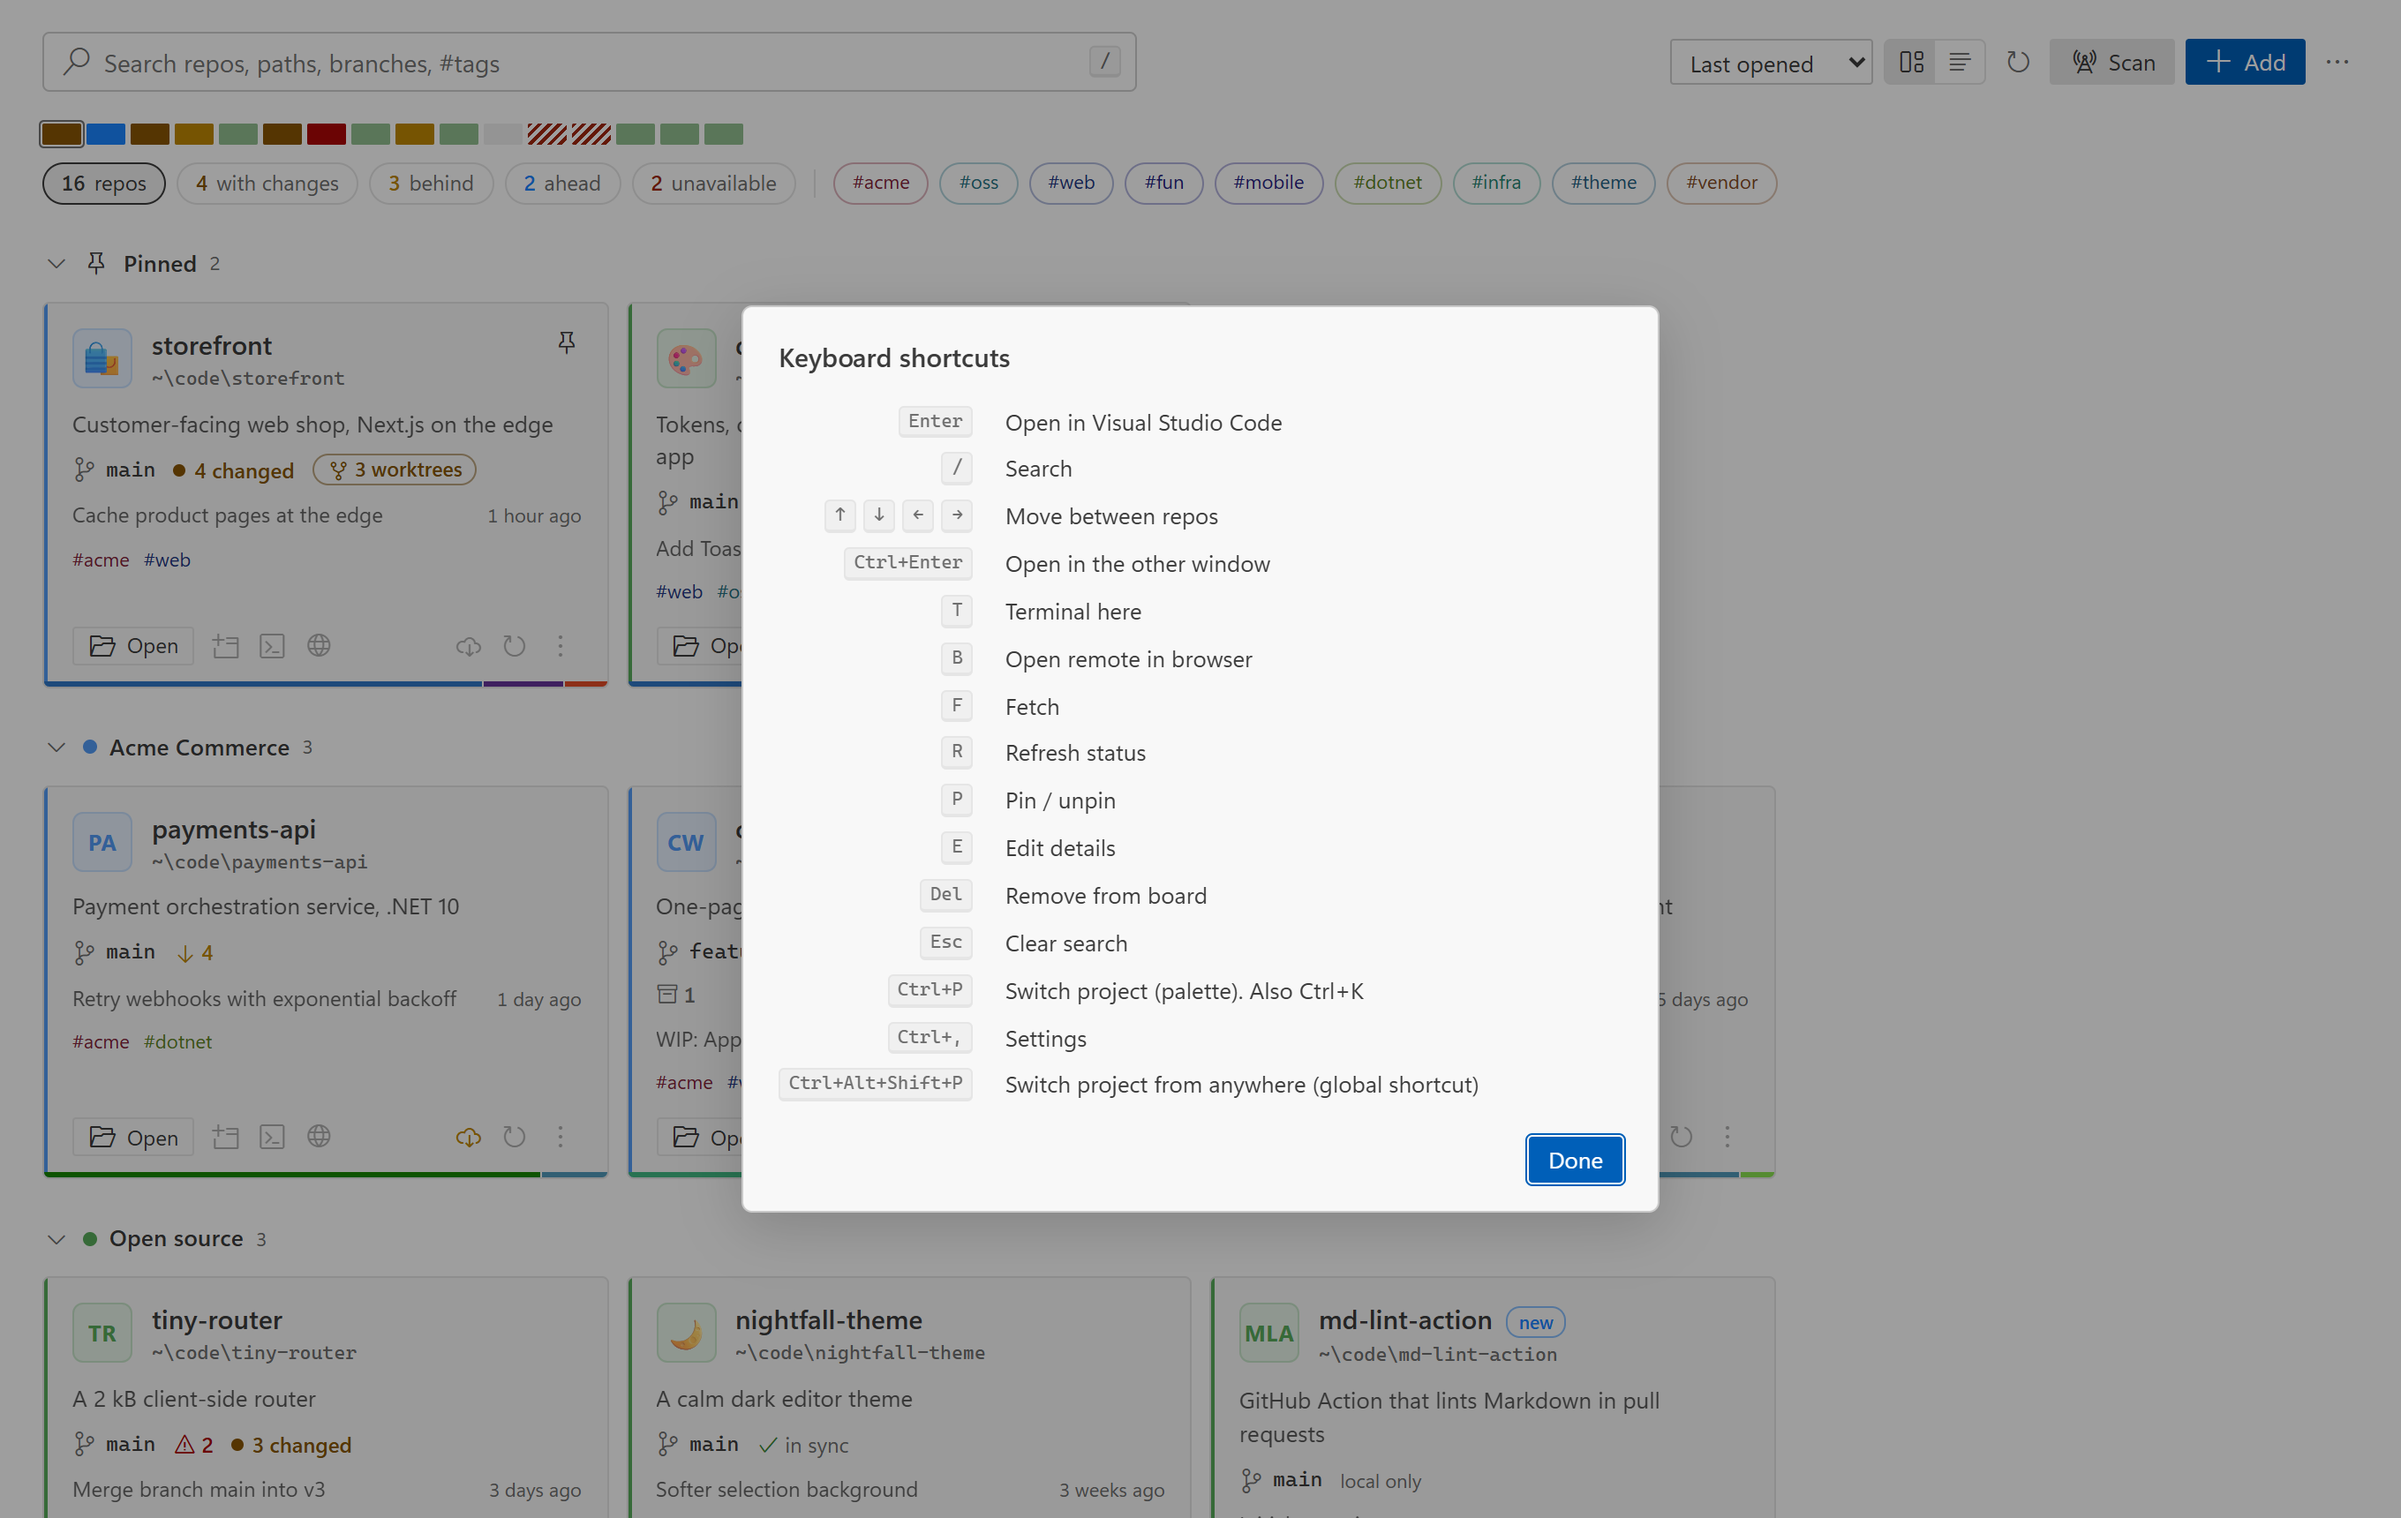
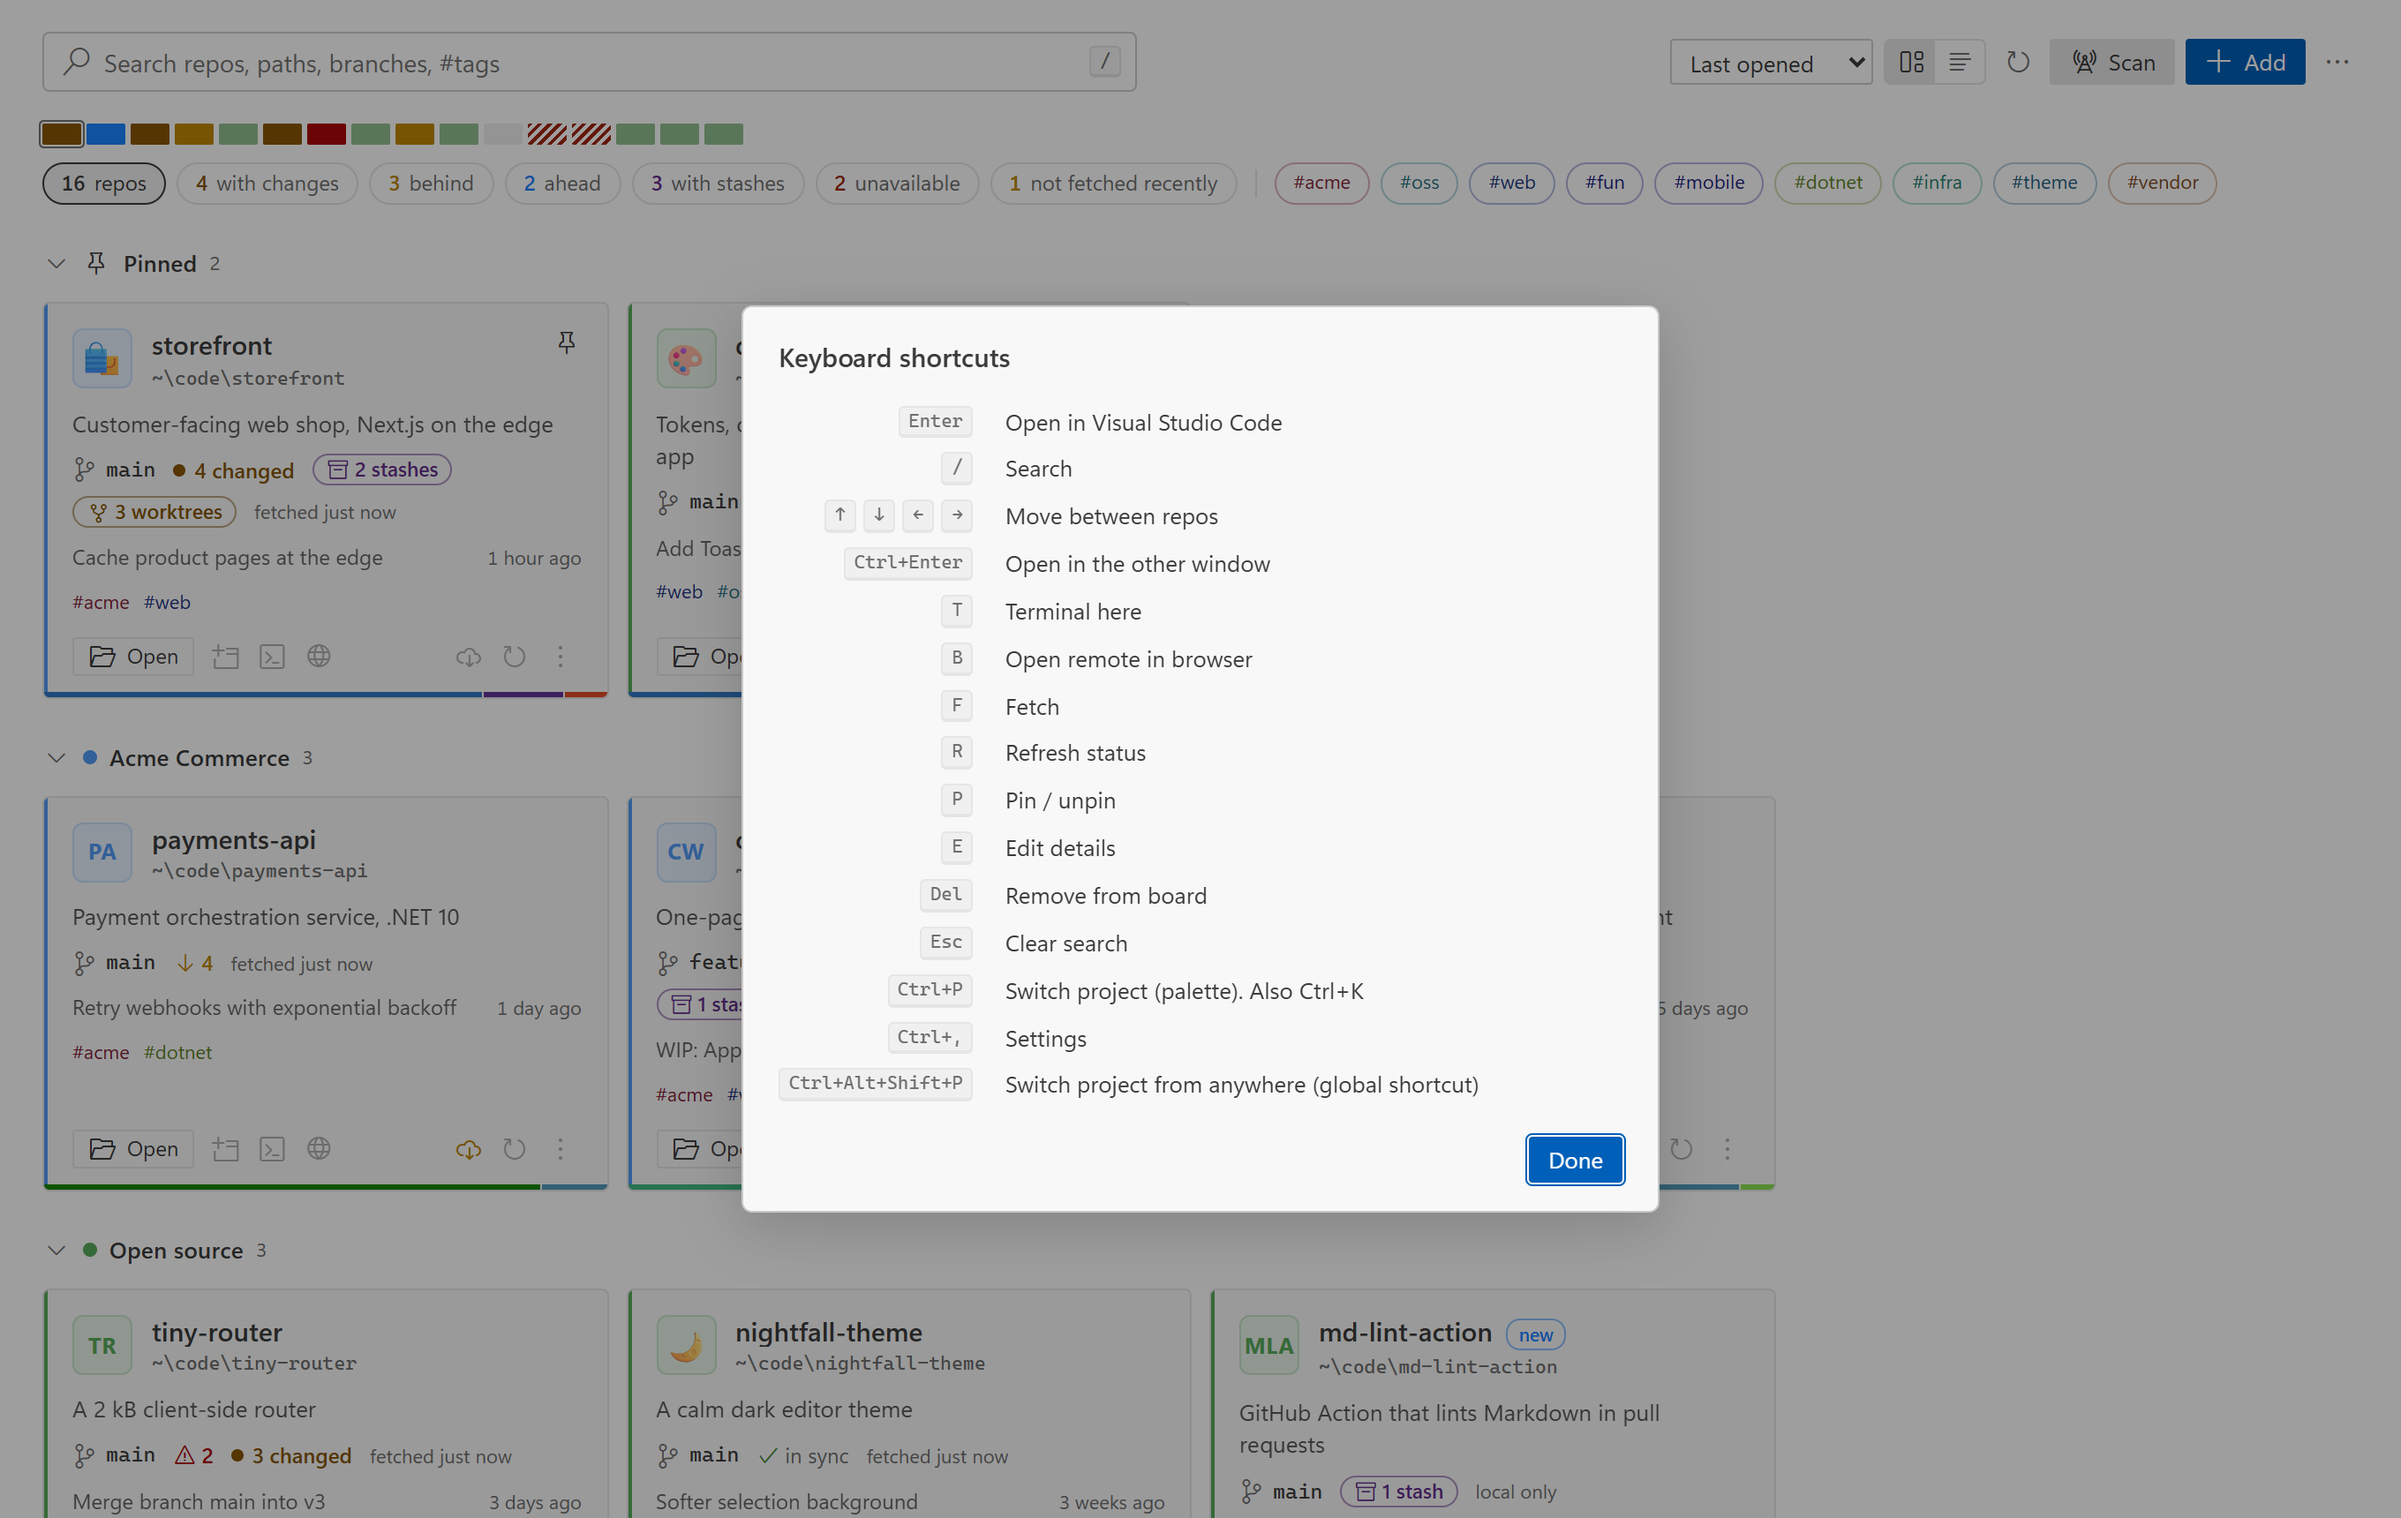
Flag stale fetches in the switcher; document freshness, background fetch and stashes
- the switcher shows 'fetched 3d ago' / 'fetch failed' for repos whose
  ahead/behind can't be trusted
- README, CHANGELOG (0.2.0) and the website describe the new features
- screenshots re-taken, with a new one of the stash list

diff --git a/src/ui/switcher.ts b/src/ui/switcher.ts
@@ -1,3 +1,4 @@
+import { fetchFreshness } from '../domain/freshness';
 import { changedFiles, initialsFor } from '../domain/model';
 import { fieldsOf, matchScore, sortProjects } from '../domain/search';
 import { send } from '../core/bridge';
@@ -100,6 +101,11 @@ export function openSwitcher(getBoard: () => BoardState | undefined): void {
       if (git.ahead) status.push(h('span', { class: 'sw-badge b-ahead', title: `${git.ahead} to push` }, icon('arrow-up'), String(git.ahead)));
       if (git.stashes) status.push(h('span', { class: 'sw-badge b-stash', title: `${git.stashes} stash${git.stashes === 1 ? '' : 'es'}` }, icon('archive'), String(git.stashes)));
       if (git.worktrees?.length) status.push(h('span', { class: 'sw-badge', title: 'Linked worktrees' }, icon('repo-forked'), String(git.worktrees.length)));
+      // Before you pick a repo to start work in: are its ahead/behind numbers trustworthy?
+      const fresh = fetchFreshness(git);
+      if (fresh.kind === 'stale' || fresh.kind === 'never' || fresh.kind === 'failed') {
+        status.push(h('span', { class: 'sw-badge fetched warn', title: fresh.title }, icon(fresh.kind === 'failed' ? 'warning' : 'history'), fresh.label));
+      }
     }
     if (meta?.availability === 'missing') status.push(h('span', { class: 'sw-badge b-missing' }, icon('warning'), 'folder missing'));
     if (meta?.availability === 'offline') status.push(h('span', { class: 'sw-badge b-missing' }, icon('debug-disconnect'), 'drive not connected'));

diff --git a/README.md b/README.md
@@ -48,7 +48,8 @@ Repo Board replaces that with one window:
 ### The whole fleet at a glance
 
 The strip at the top has one cell per repo, coloured by its git state. The chips under it filter the board to what
-matters right now: repos **with changes**, **behind**, **ahead** or **unavailable**. Sort by *most changes* and the
+matters right now: repos **with changes**, **behind**, **ahead**, **with stashes**, **unavailable** or **not fetched
+recently**. Sort by *most changes* and the
 repos that need you come first.
 
 ![Repos with uncommitted changes, sorted by most changes](images/attention.png)
@@ -70,6 +71,25 @@ one. Fetch, pull and push buttons appear when there is something to do.
 
 Most of this comes from a single `git status --porcelain=v2` call per repo. The board is shown instantly from cache
 while fresh status streams in.
+
+### Know how fresh "behind" is
+
+A behind count is only as current as the last `git fetch`. Every tile says when its repo was last fetched, such as
+*fetched 20m ago*, and turns it into a warning once that is more than a day ago or never happened. The time comes from
+the repo itself, so fetches from the command line, VS Code or the Repo Board extension count too.
+
+Repo Board also fetches in the background, every 30 minutes by default, and skips any repo that something else fetched
+recently. If a fetch fails, for example because a token expired, the tile says *fetch failed* and why, instead of
+quietly showing old numbers. When the network is down, the board shows one *Offline* note instead of an error on every
+repo.
+
+### Stashes don't get lost
+
+Stashes never show up as changed files, so a repo whose only unsaved work is a stash looks clean. Repo Board shows a
+*2 stashes* badge on the tile, with the age of the oldest in its tooltip. Click it to list each stash with its branch,
+message and age. The **with stashes** chip finds them all, and *most changes* ranks stashed repos above clean ones.
+
+![A repo's stashes listed with their branch, message and age](images/stashes.png)
 
 ### Auto-discovery
 
@@ -188,7 +208,8 @@ Everything is configured in the app (**⋯ › Settings**, or <kbd>Ctrl</kbd>+<k
 | Terminal | automatic | Terminal used by *Open terminal here*, or a custom command with `{path}` |
 | Global shortcut | <kbd>Ctrl</kbd>+<kbd>Alt</kbd>+<kbd>Shift</kbd>+<kbd>P</kbd> | Brings the app forward with the switcher open; empty turns it off |
 | Default view / sort | grid / recent | How the board starts |
-| Fetch on open | on | Background `git fetch` at start-up so ahead/behind is real |
+| Fetch at start-up | on | `git fetch` when the app starts and when you refresh the board, skipping repos fetched in the last 10 minutes |
+| Background fetch | every 30 minutes | Keeps ahead/behind current; repos fetched recently by any tool are skipped; 0 turns it off |
 | Cache minutes | `5` | How long git status is reused before it is read again |
 | Language bar | on | Bounded file scan per project, capped at *Max files scanned* (10 000) |
 | Theme | system | System, light or dark |

diff --git a/CHANGELOG.md b/CHANGELOG.md
@@ -2,6 +2,17 @@
 
 ## 0.2.0
 
+- **Know how fresh "behind" is.** Every tile says when its repo was last fetched (*fetched 20m ago*) and turns it
+  into a warning after a day or when it never happened. Fetches by any tool count: git on the command line, VS Code or
+  the Repo Board extension. A **not fetched recently** chip lists those repos, and the switcher flags them too.
+- **Background fetch.** Repo Board fetches every 30 minutes by default (Settings › *Fetch in the background every*;
+  0 turns it off) and skips repos something else fetched recently. Background fetches now update `FETCH_HEAD`, so
+  other tools see them.
+- **Fetch failures are visible.** A repo whose fetch fails shows *fetch failed* with the reason instead of quietly
+  keeping old numbers. When every fetch fails, the board shows one *Offline* note instead.
+- **Stashes don't get lost.** The stash badge says *2 stashes* and gives the oldest one's age; click it to list each
+  stash with its branch, message and age. A **with stashes** chip finds them, *most changes* ranks stashed repos above
+  clean ones, and worktree tiles no longer repeat their main repo's stashes.
 - **Automatic updates.** Repo Board checks GitHub for a new version when it starts (at most once a day) and offers
   to install it and restart. Updates are signed and verified before they are installed. Use **⋯ › Check for
   updates** to look right away, or turn the automatic check off in Settings.
